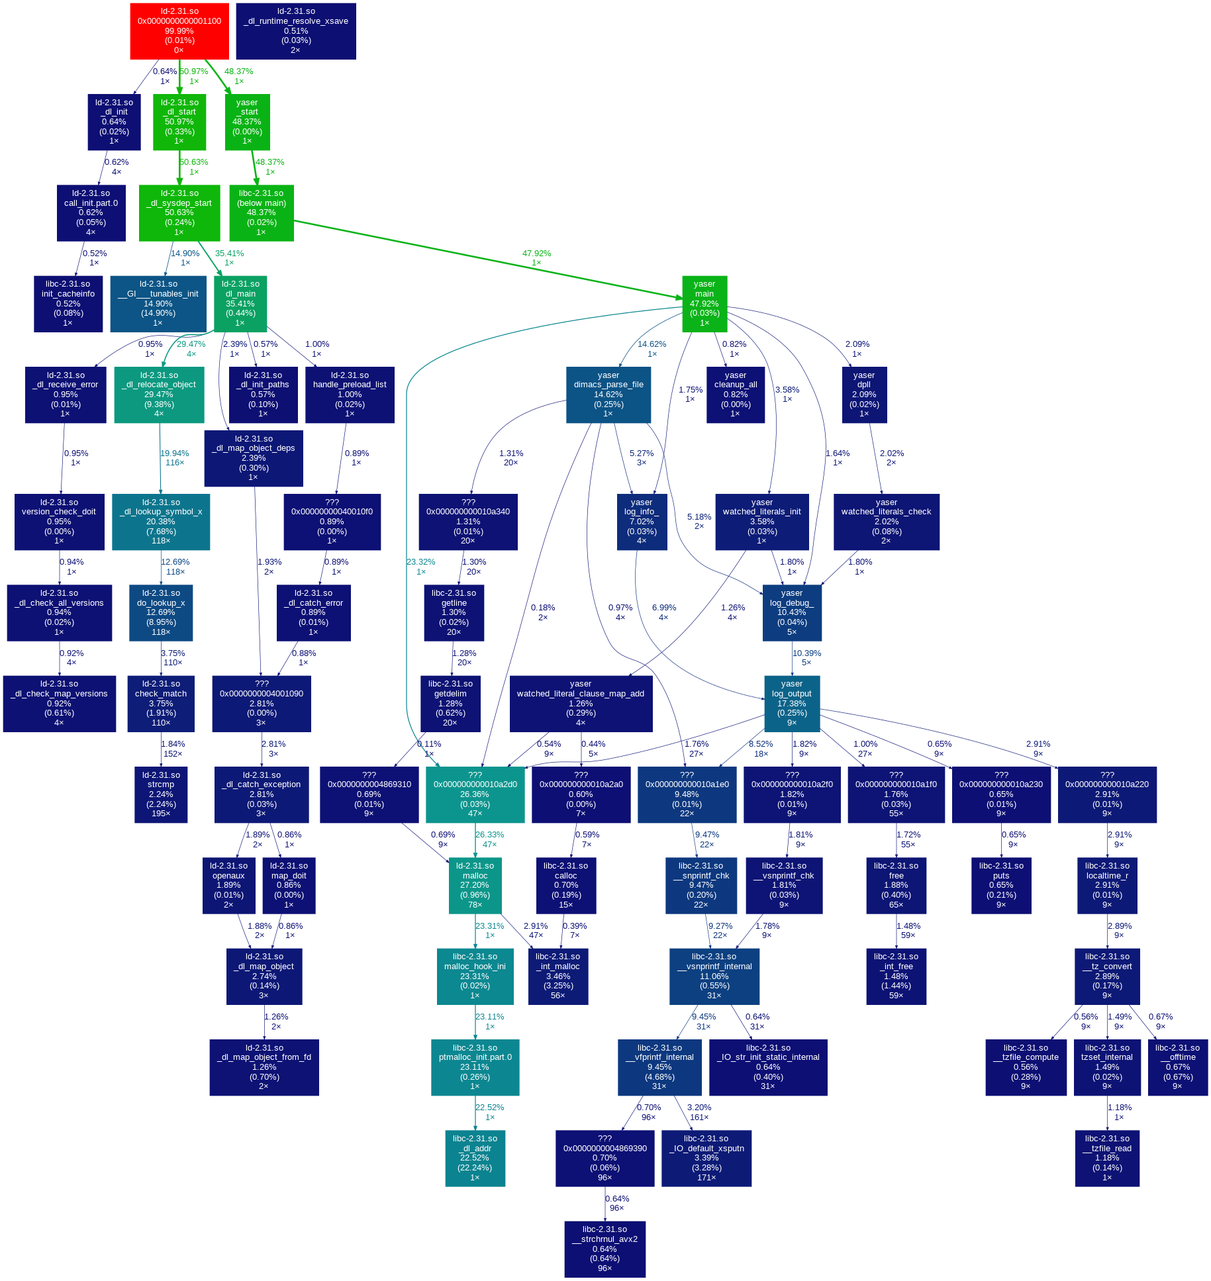
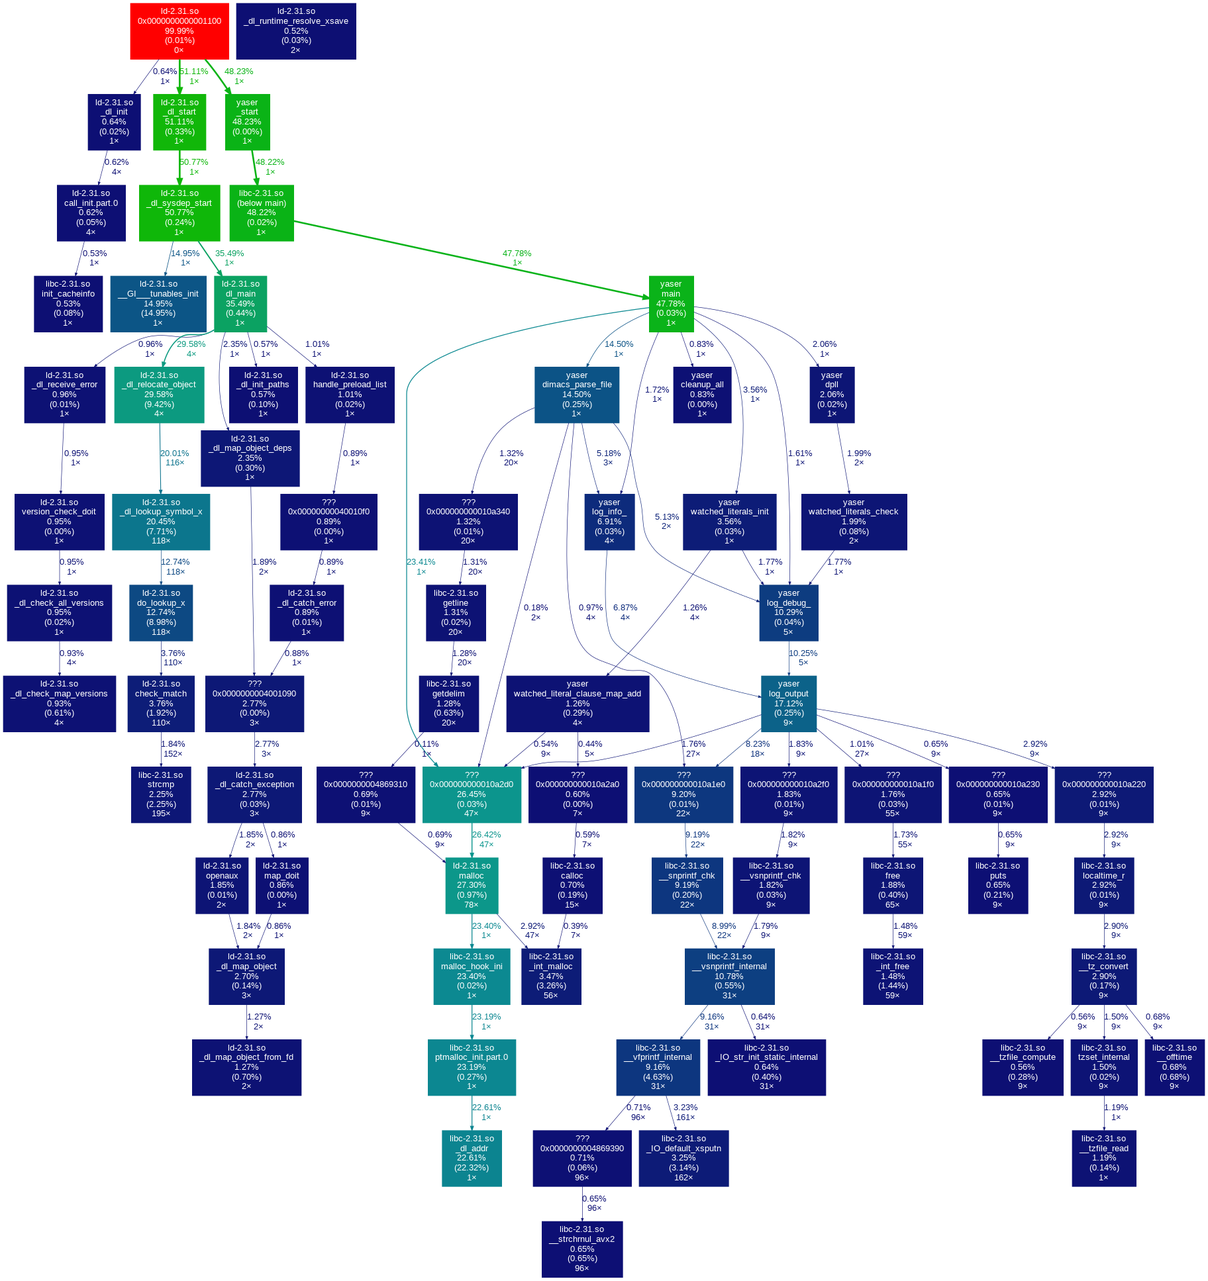
Deploying to gh-pages from @ marcluque/YASER@8e9dce87bd10e70b5e30a83572493c12b25affb4 🚀

diff --git a/searchindex.js b/searchindex.js
@@ -1,1 +1,1 @@
-Search.setIndex({"docnames": ["index", "reports/address-sanitizer", "reports/benchmark", "reports/callgrind", "reports/complexity", "reports/gnu-profiler", "reports/index", "reports/memory-sanitizer", "reports/ub-sanitizer", "reports/unit-test", "reports/valgrind-report"], "filenames": ["index.rst", "reports/address-sanitizer.rst", "reports/benchmark.rst", "reports/callgrind.rst", "reports/complexity.rst", "reports/gnu-profiler.rst", "reports/index.rst", "reports/memory-sanitizer.rst", "reports/ub-sanitizer.rst", "reports/unit-test.rst", "reports/valgrind-report.rst"], "titles": ["YASER\u2019s Documentation", "Address Sanitizer", "Benchmark", "Callgrind", "Complexity", "GNU Profiler", "Reports", "Memory Sanitizer", "Undefined Behavior Sanitizer", "Unit Test", "Valgrind"], "terms": {"13": [1, 3, 4, 7, 8, 10], "09": [1, 3, 7, 8, 10], "34": [1, 4], "yaser": [1, 3, 7, 8, 10], "32minfo": [1, 3, 7, 8, 10], "0m": [1, 3, 7, 8, 10], "dimacs_pars": [1, 3, 4, 7, 8, 10], "c": [1, 3, 4, 7, 8, 10], "32m": [1, 3, 7, 8, 10], "liter": [1, 3, 4, 7, 8, 10], "4": [1, 3, 4, 7, 8, 10], "distinct": [1, 3, 7, 8, 10], "variabl": [1, 3, 7, 8, 10], "2": [1, 3, 4, 7, 8, 10], "claus": [1, 3, 7, 8, 10], "3": [1, 3, 4, 7, 8, 10], "main": [1, 3, 4, 7, 8, 10], "32mresult": [1, 3, 7, 8, 10], "unsat": [1, 3, 7, 8, 10], "3771": 3, "call": 3, "graph": 3, "gener": 3, "cach": 3, "profil": [3, 6], "copyright": [3, 10], "2002": [3, 10], "2017": [3, 10], "gnu": [3, 6, 10], "gpl": [3, 10], "d": [3, 10], "josef": 3, "weidendorf": 3, "et": [3, 10], "al": [3, 10], "us": [3, 10], "valgrind": [3, 6], "15": [3, 4, 10], "0": [3, 4, 10], "libvex": [3, 10], "rerun": [3, 10], "h": [3, 10], "info": [3, 10], "command": [3, 10], "i": [3, 10], "satlib": [3, 10], "pigeonhol": [3, 10], "1": [3, 4, 10], "cnf": [3, 10], "warn": 3, "l3": 3, "found": 3, "its": 3, "data": 3, "ll": 3, "simul": 3, "specifi": 3, "line_s": 3, "64": 3, "assoc": 3, "20": [3, 4], "total_s": 3, "52": 3, "428": 3, "800": 3, "25": [3, 4], "For": [3, 10], "interact": 3, "control": 3, "run": 3, "callgrind_control": 3, "58": 3, "36mdebug": [3, 10], "36msuccessfulli": [3, 10], "open": [3, 10], "file": [3, 4, 10], "36mpars": [3, 10], "formula": [3, 4, 10], "x1": [3, 10], "x2": [3, 10], "watched_liter": [3, 4, 10], "36mwatch": [3, 10], "ar": [3, 10], "initi": [3, 10], "36miniti": [3, 10], "done": [3, 10], "36mclaus": [3, 10], "conflict": [3, 4, 10], "event": 3, "ir": 3, "dr": 3, "dw": 3, "i1mr": 3, "d1mr": 3, "d1mw": 3, "ilmr": 3, "dlmr": 3, "dlmw": 3, "bc": 3, "bcm": 3, "bi": 3, "bim": 3, "collect": 3, "321673": 3, "70954": 3, "26402": 3, "1821": 3, "2810": 3, "768": 3, "1683": 3, "2204": 3, "697": 3, "60859": 3, "7136": 3, "1223": 3, "284": 3, "ref": 3, "321": 3, "673": 3, "i1": 3, "miss": 3, "821": 3, "lli": 3, "683": 3, "rate": 3, "57": 3, "97": 3, "356": 3, "70": 3, "954": 3, "rd": 3, "26": 3, "402": 3, "wr": 3, "d1": 3, "578": 3, "810": 3, "lld": 3, "901": 3, "204": 3, "7": [3, 4], "9": [3, 4], "6": [3, 4], "5": [3, 4], "399": 3, "631": 3, "584": 3, "887": 3, "branch": 3, "62": [3, 4], "082": 3, "60": 3, "859": 3, "cond": 3, "223": 3, "ind": 3, "mispredict": 3, "420": 3, "136": 3, "mispr": 3, "12": [3, 4], "11": [3, 4], "23": [3, 4], "score": 4, "ln": 4, "ct": 4, "nc": 4, "name": 4, "line": 4, "proc": 4, "src": 4, "watch": 4, "sat_clause_set": 4, "24": 4, "sat_clause_set_exists_unsat": 4, "assign": 4, "unit_clause_stack": 4, "17": 4, "unit_clause_stack_clear": 4, "21": 4, "unit_clause_stack_reset": 4, "unit_clause_stack_empti": 4, "29": 4, "unit_clause_stack_ful": 4, "assignment_stack": 4, "assignment_stack_clear": 4, "assignment_stack_reset": 4, "27": 4, "assignment_stack_empti": 4, "31": 4, "assignment_stack_ful": 4, "18": 4, "sat_clause_set_add": 4, "sat_clause_set_contain": 4, "41": 4, "unit_clause_stack_pop": 4, "global": 4, "formula_clear": 4, "47": 4, "assignment_stack_pop": 4, "10": 4, "unit_clause_stack_init": 4, "assignment_stack_init": 4, "log": 4, "42": [4, 10], "log_info_": 4, "51": 4, "log_error_": 4, "33": 4, "unit_clause_stack_push": 4, "32": 4, "log_debug_": 4, "dpll": 4, "update_assign": 4, "clause_resolut": 4, "resolvent_variable_table_clear": 4, "8": 4, "conflict_resolut": 4, "resolve_conflict": 4, "watched_literal_clause_map": 4, "watched_literal_clause_map_get": 4, "clause_literal_map": 4, "clause_literal_map_clear": 4, "clause_literal_map_get": 4, "cleanup": 4, "cleanup_al": 4, "resolvent_literal_table_add": 4, "watched_literal_clause_map_clear": 4, "pars": 4, "init": 4, "30": [4, 8], "decid": 4, "35": 4, "assignment_stack_push": 4, "bcp": 4, "backtrack": 4, "clause_literal_map_add": 4, "79": 4, "tokenize_head": 4, "formula_init": 4, "tokenize_claus": 4, "92": 4, "watched_literals_check": 4, "19": 4, "log_output": 4, "watched_literals_init": 4, "16": 4, "14": 4, "55": 4, "find_new_liter": 4, "watched_literal_clause_map_add": 4, "parse_flag": 4, "28": [4, 7], "46": 4, "43": 4, "check_watched_literal_partn": 4, "print_formula": 4, "clause_resolution_build_resolv": 4, "76": 4, "100": 4, "dimacs_parse_fil": 4, "histogram": 4, "rang": 4, "lin": 4, "448": 4, "procedur": 4, "50": 4, "non": 4, "comment": 4, "averag": 4, "il": 4, "75": 4, "higher": 4, "half": 4, "highest": 4, "address": 6, "sanit": 6, "benchmark": 6, "callgrind": 6, "complex": 6, "memori": [6, 10], "undefin": 6, "behavior": 6, "unit": 6, "test": 6, "gcov": 6, "3281": 10, "memcheck": 10, "error": 10, "detector": 10, "julian": 10, "seward": 10, "heap": 10, "summari": 10, "exit": 10, "byte": 10, "block": 10, "total": 10, "usag": 10, "63": 10, "alloc": 10, "free": 10, "90": 10, "514": 10, "all": 10, "were": 10, "freed": 10, "leak": 10, "possibl": 10, "list": 10, "detect": 10, "suppress": 10, "s": 10, "from": 10, "context": 10}, "objects": {}, "objtypes": {}, "objnames": {}, "titleterms": {"yaser": 0, "s": 0, "document": 0, "address": 1, "sanit": [1, 7, 8], "benchmark": 2, "callgrind": 3, "complex": 4, "gnu": 5, "profil": 5, "report": 6, "memori": 7, "undefin": 8, "behavior": 8, "unit": 9, "test": 9, "valgrind": 10}, "envversion": {"sphinx.domains.c": 2, "sphinx.domains.changeset": 1, "sphinx.domains.citation": 1, "sphinx.domains.cpp": 6, "sphinx.domains.index": 1, "sphinx.domains.javascript": 2, "sphinx.domains.math": 2, "sphinx.domains.python": 3, "sphinx.domains.rst": 2, "sphinx.domains.std": 2, "sphinx.ext.intersphinx": 1, "sphinx.ext.todo": 2, "sphinx.ext.viewcode": 1, "sphinx": 56}})
+Search.setIndex({"docnames": ["index", "reports/address-sanitizer", "reports/benchmark", "reports/callgrind", "reports/complexity", "reports/gnu-profiler", "reports/index", "reports/memory-sanitizer", "reports/ub-sanitizer", "reports/unit-test", "reports/valgrind-report"], "filenames": ["index.rst", "reports/address-sanitizer.rst", "reports/benchmark.rst", "reports/callgrind.rst", "reports/complexity.rst", "reports/gnu-profiler.rst", "reports/index.rst", "reports/memory-sanitizer.rst", "reports/ub-sanitizer.rst", "reports/unit-test.rst", "reports/valgrind-report.rst"], "titles": ["YASER\u2019s Documentation", "Address Sanitizer", "Benchmark", "Callgrind", "Complexity", "GNU Profiler", "Reports", "Memory Sanitizer", "Undefined Behavior Sanitizer", "Unit Test", "Valgrind"], "terms": {"11": [1, 3, 4, 7, 8, 10], "34": [1, 3, 4, 7, 8, 10], "40": 1, "yaser": [1, 3, 7, 8, 10], "32minfo": [1, 3, 7, 8, 10], "0m": [1, 3, 7, 8, 10], "dimacs_pars": [1, 3, 4, 7, 8, 10], "c": [1, 3, 4, 7, 8, 10], "32m": [1, 3, 7, 8, 10], "liter": [1, 3, 4, 7, 8, 10], "4": [1, 3, 4, 7, 8, 10], "distinct": [1, 3, 7, 8, 10], "variabl": [1, 3, 7, 8, 10], "2": [1, 3, 4, 7, 8, 10], "claus": [1, 3, 7, 8, 10], "3": [1, 3, 4, 7, 8, 10], "main": [1, 3, 4, 7, 8, 10], "32mresult": [1, 3, 7, 8, 10], "unsat": [1, 3, 7, 8, 10], "3629": 3, "call": 3, "graph": 3, "gener": 3, "cach": 3, "profil": [3, 6], "copyright": [3, 10], "2002": [3, 10], "2017": [3, 10], "gnu": [3, 6, 10], "gpl": [3, 10], "d": [3, 10], "josef": 3, "weidendorf": 3, "et": [3, 10], "al": [3, 10], "us": [3, 10], "valgrind": [3, 6], "15": [3, 4, 10], "0": [3, 4, 10], "libvex": [3, 10], "rerun": [3, 10], "h": [3, 10], "info": [3, 10], "command": [3, 10], "i": [3, 10], "satlib": [3, 10], "pigeonhol": [3, 10], "1": [3, 4, 10], "cnf": [3, 10], "warn": 3, "l3": 3, "found": 3, "its": 3, "data": 3, "ll": 3, "simul": 3, "specifi": 3, "line_s": 3, "64": 3, "assoc": 3, "total_s": 3, "37": 3, "486": 3, "592": 3, "18": [3, 4], "748": 3, "736": 3, "For": [3, 10], "interact": 3, "control": 3, "run": 3, "callgrind_control": 3, "59": 3, "36mdebug": [3, 10], "36msuccessfulli": [3, 10], "open": [3, 10], "file": [3, 4, 10], "36mpars": [3, 10], "formula": [3, 4, 10], "x1": [3, 10], "x2": [3, 10], "watched_liter": [3, 4, 10], "36mwatch": [3, 10], "ar": [3, 10], "initi": [3, 10], "36miniti": [3, 10], "done": [3, 10], "36mclaus": [3, 10], "conflict": [3, 4, 10], "event": 3, "ir": 3, "dr": 3, "dw": 3, "i1mr": 3, "d1mr": 3, "d1mw": 3, "ilmr": 3, "dlmr": 3, "dlmw": 3, "bc": 3, "bcm": 3, "bi": 3, "bim": 3, "collect": 3, "320488": 3, "70714": 3, "26229": 3, "1796": 3, "2807": 3, "767": 3, "1674": 3, "2204": 3, "697": 3, "60682": 3, "7076": 3, "1214": 3, "283": 3, "ref": 3, "320": 3, "488": 3, "i1": 3, "miss": 3, "796": 3, "lli": 3, "674": 3, "rate": 3, "56": 3, "52": 3, "96": 3, "943": 3, "70": 3, "714": 3, "rd": 3, "26": 3, "229": 3, "wr": 3, "d1": 3, "574": 3, "807": 3, "lld": 3, "901": 3, "204": 3, "7": [3, 4], "9": [3, 4], "5": [3, 4], "370": 3, "603": 3, "575": 3, "878": 3, "branch": 3, "61": 3, "896": 3, "60": 3, "682": 3, "cond": 3, "214": 3, "ind": 3, "mispredict": 3, "359": 3, "076": 3, "mispr": 3, "23": [3, 4], "score": 4, "ln": 4, "ct": 4, "nc": 4, "name": 4, "line": 4, "proc": 4, "src": 4, "watch": 4, "sat_clause_set": 4, "24": 4, "sat_clause_set_exists_unsat": 4, "assign": 4, "unit_clause_stack": 4, "17": 4, "unit_clause_stack_clear": 4, "21": 4, "unit_clause_stack_reset": 4, "25": 4, "unit_clause_stack_empti": 4, "29": 4, "unit_clause_stack_ful": 4, "assignment_stack": 4, "assignment_stack_clear": 4, "assignment_stack_reset": 4, "27": 4, "assignment_stack_empti": 4, "31": 4, "assignment_stack_ful": 4, "sat_clause_set_add": 4, "sat_clause_set_contain": 4, "41": 4, "unit_clause_stack_pop": 4, "global": 4, "formula_clear": 4, "6": 4, "47": 4, "assignment_stack_pop": 4, "10": 4, "unit_clause_stack_init": 4, "assignment_stack_init": 4, "log": 4, "42": 4, "log_info_": 4, "51": 4, "log_error_": 4, "33": 4, "unit_clause_stack_push": 4, "32": 4, "log_debug_": 4, "dpll": 4, "update_assign": 4, "clause_resolut": 4, "resolvent_variable_table_clear": 4, "8": 4, "conflict_resolut": 4, "resolve_conflict": 4, "watched_literal_clause_map": 4, "watched_literal_clause_map_get": 4, "clause_literal_map": 4, "clause_literal_map_clear": 4, "clause_literal_map_get": 4, "12": 4, "cleanup": 4, "cleanup_al": 4, "13": 4, "resolvent_literal_table_add": 4, "watched_literal_clause_map_clear": 4, "pars": 4, "init": 4, "30": 4, "decid": 4, "35": 4, "assignment_stack_push": 4, "bcp": 4, "backtrack": 4, "20": 4, "clause_literal_map_add": 4, "79": 4, "tokenize_head": 4, "formula_init": 4, "62": 4, "tokenize_claus": 4, "92": 4, "watched_literals_check": 4, "19": 4, "log_output": 4, "watched_literals_init": 4, "16": 4, "14": 4, "55": 4, "find_new_liter": 4, "watched_literal_clause_map_add": 4, "parse_flag": 4, "28": 4, "46": 4, "43": 4, "check_watched_literal_partn": 4, "print_formula": 4, "clause_resolution_build_resolv": 4, "76": 4, "100": 4, "dimacs_parse_fil": 4, "histogram": 4, "rang": 4, "lin": 4, "448": 4, "procedur": 4, "50": 4, "non": 4, "comment": 4, "averag": 4, "il": 4, "75": 4, "higher": 4, "half": 4, "highest": 4, "address": 6, "sanit": 6, "benchmark": 6, "callgrind": 6, "complex": 6, "memori": [6, 10], "undefin": 6, "behavior": 6, "unit": 6, "test": 6, "gcov": 6, "44": 7, "39": 8, "3036": 10, "memcheck": 10, "error": 10, "detector": 10, "julian": 10, "seward": 10, "53": 10, "heap": 10, "summari": 10, "exit": 10, "byte": 10, "block": 10, "total": 10, "usag": 10, "63": 10, "alloc": 10, "free": 10, "90": 10, "514": 10, "all": 10, "were": 10, "freed": 10, "leak": 10, "possibl": 10, "list": 10, "detect": 10, "suppress": 10, "s": 10, "from": 10, "context": 10}, "objects": {}, "objtypes": {}, "objnames": {}, "titleterms": {"yaser": 0, "s": 0, "document": 0, "address": 1, "sanit": [1, 7, 8], "benchmark": 2, "callgrind": 3, "complex": 4, "gnu": 5, "profil": 5, "report": 6, "memori": 7, "undefin": 8, "behavior": 8, "unit": 9, "test": 9, "valgrind": 10}, "envversion": {"sphinx.domains.c": 2, "sphinx.domains.changeset": 1, "sphinx.domains.citation": 1, "sphinx.domains.cpp": 6, "sphinx.domains.index": 1, "sphinx.domains.javascript": 2, "sphinx.domains.math": 2, "sphinx.domains.python": 3, "sphinx.domains.rst": 2, "sphinx.domains.std": 2, "sphinx.ext.intersphinx": 1, "sphinx.ext.todo": 2, "sphinx.ext.viewcode": 1, "sphinx": 56}})

diff --git a/reports/callgrind.html b/reports/callgrind.html
@@ -81,47 +81,47 @@
              
   <section id="callgrind">
 <span id="reports-callgrind"></span><h1>Callgrind<a class="headerlink" href="#callgrind" title="Permalink to this heading"></a></h1>
-<div class="highlight-C notranslate"><div class="highlight"><pre><span></span>==3771== Callgrind, a call-graph generating cache profiler
-==3771== Copyright (C) 2002-2017, and GNU GPL&#39;d, by Josef Weidendorfer et al.
-==3771== Using Valgrind-3.15.0 and LibVEX; rerun with -h for copyright info
-==3771== Command: ./yaser -i satlib/pigeonhole/pigeonhole-1.cnf
-==3771== 
---3771-- warning: L3 cache found, using its data for the LL simulation.
---3771-- warning: specified LL cache: line_size 64  assoc 20  total_size 52,428,800
---3771-- warning: simulated LL cache: line_size 64  assoc 25  total_size 52,428,800
-==3771== For interactive control, run &#39;callgrind_control -h&#39;.
-[13:09:58][YASER - [36mDEBUG[0m][dimacs_parser.c]: [36mSuccessfully opened file (satlib/pigeonhole/pigeonhole-1.cnf)[0m
-[13:09:58][YASER - [32mINFO[0m][dimacs_parser.c]: [32m#Literals=4 (not distinct)[0m
-[13:09:58][YASER - [32mINFO[0m][dimacs_parser.c]: [32m#Variables=2[0m
-[13:09:58][YASER - [32mINFO[0m][dimacs_parser.c]: [32m#Clauses=3[0m
-[13:09:58][YASER - [36mDEBUG[0m][dimacs_parser.c]: [36mParsed formula (x1) ∧ (x2) ∧ (¬x1 ∨ ¬x2)[0m
-[13:09:58][YASER - [36mDEBUG[0m][watched_literals.c]: [36mWatched Literals are initialized...[0m
-[13:09:58][YASER - [36mDEBUG[0m][main.c]: [36mInitialization done...[0m
-[13:09:58][YASER - [36mDEBUG[0m][watched_literals.c]: [36mClause 0 is conflicting[0m
-[13:09:58][YASER - [32mINFO[0m][main.c]: [32mRESULT: UNSAT[0m
-==3771== 
-==3771== Events    : Ir Dr Dw I1mr D1mr D1mw ILmr DLmr DLmw Bc Bcm Bi Bim
-==3771== Collected : 321673 70954 26402 1821 2810 768 1683 2204 697 60859 7136 1223 284
-==3771== 
-==3771== I   refs:      321,673
-==3771== I1  misses:      1,821
-==3771== LLi misses:      1,683
-==3771== I1  miss rate:    0.57%
-==3771== LLi miss rate:    0.52%
-==3771== 
-==3771== D   refs:       97,356  (70,954 rd + 26,402 wr)
-==3771== D1  misses:      3,578  ( 2,810 rd +    768 wr)
-==3771== LLd misses:      2,901  ( 2,204 rd +    697 wr)
-==3771== D1  miss rate:     3.7% (   4.0%   +    2.9%  )
-==3771== LLd miss rate:     3.0% (   3.1%   +    2.6%  )
-==3771== 
-==3771== LL refs:         5,399  ( 4,631 rd +    768 wr)
-==3771== LL misses:       4,584  ( 3,887 rd +    697 wr)
-==3771== LL miss rate:      1.1% (   1.0%   +    2.6%  )
-==3771== 
-==3771== Branches:       62,082  (60,859 cond +  1,223 ind)
-==3771== Mispredicts:     7,420  ( 7,136 cond +    284 ind)
-==3771== Mispred rate:     12.0% (  11.7%     +   23.2%   )
+<div class="highlight-C notranslate"><div class="highlight"><pre><span></span>==3629== Callgrind, a call-graph generating cache profiler
+==3629== Copyright (C) 2002-2017, and GNU GPL&#39;d, by Josef Weidendorfer et al.
+==3629== Using Valgrind-3.15.0 and LibVEX; rerun with -h for copyright info
+==3629== Command: ./yaser -i satlib/pigeonhole/pigeonhole-1.cnf
+==3629== 
+--3629-- warning: L3 cache found, using its data for the LL simulation.
+--3629-- warning: specified LL cache: line_size 64  assoc 11  total_size 37,486,592
+--3629-- warning: simulated LL cache: line_size 64  assoc 18  total_size 37,748,736
+==3629== For interactive control, run &#39;callgrind_control -h&#39;.
+[11:34:59][YASER - [36mDEBUG[0m][dimacs_parser.c]: [36mSuccessfully opened file (satlib/pigeonhole/pigeonhole-1.cnf)[0m
+[11:34:59][YASER - [32mINFO[0m][dimacs_parser.c]: [32m#Literals=4 (not distinct)[0m
+[11:34:59][YASER - [32mINFO[0m][dimacs_parser.c]: [32m#Variables=2[0m
+[11:34:59][YASER - [32mINFO[0m][dimacs_parser.c]: [32m#Clauses=3[0m
+[11:34:59][YASER - [36mDEBUG[0m][dimacs_parser.c]: [36mParsed formula (x1) ∧ (x2) ∧ (¬x1 ∨ ¬x2)[0m
+[11:34:59][YASER - [36mDEBUG[0m][watched_literals.c]: [36mWatched Literals are initialized...[0m
+[11:34:59][YASER - [36mDEBUG[0m][main.c]: [36mInitialization done...[0m
+[11:34:59][YASER - [36mDEBUG[0m][watched_literals.c]: [36mClause 0 is conflicting[0m
+[11:34:59][YASER - [32mINFO[0m][main.c]: [32mRESULT: UNSAT[0m
+==3629== 
+==3629== Events    : Ir Dr Dw I1mr D1mr D1mw ILmr DLmr DLmw Bc Bcm Bi Bim
+==3629== Collected : 320488 70714 26229 1796 2807 767 1674 2204 697 60682 7076 1214 283
+==3629== 
+==3629== I   refs:      320,488
+==3629== I1  misses:      1,796
+==3629== LLi misses:      1,674
+==3629== I1  miss rate:    0.56%
+==3629== LLi miss rate:    0.52%
+==3629== 
+==3629== D   refs:       96,943  (70,714 rd + 26,229 wr)
+==3629== D1  misses:      3,574  ( 2,807 rd +    767 wr)
+==3629== LLd misses:      2,901  ( 2,204 rd +    697 wr)
+==3629== D1  miss rate:     3.7% (   4.0%   +    2.9%  )
+==3629== LLd miss rate:     3.0% (   3.1%   +    2.7%  )
+==3629== 
+==3629== LL refs:         5,370  ( 4,603 rd +    767 wr)
+==3629== LL misses:       4,575  ( 3,878 rd +    697 wr)
+==3629== LL miss rate:      1.1% (   1.0%   +    2.7%  )
+==3629== 
+==3629== Branches:       61,896  (60,682 cond +  1,214 ind)
+==3629== Mispredicts:     7,359  ( 7,076 cond +    283 ind)
+==3629== Mispred rate:     11.9% (  11.7%     +   23.3%   )
 </pre></div>
 </div>
 <img alt="gprof report" src="../_images/callgrind-report.png" />

diff --git a/reports/valgrind-report.html b/reports/valgrind-report.html
@@ -80,29 +80,29 @@
              
   <section id="valgrind">
 <span id="reports-valgrind"></span><h1>Valgrind<a class="headerlink" href="#valgrind" title="Permalink to this heading"></a></h1>
-<div class="highlight-C notranslate"><div class="highlight"><pre><span></span>==3281== Memcheck, a memory error detector
-==3281== Copyright (C) 2002-2017, and GNU GPL&#39;d, by Julian Seward et al.
-==3281== Using Valgrind-3.15.0 and LibVEX; rerun with -h for copyright info
-==3281== Command: ./yaser -i satlib/pigeonhole/pigeonhole-1.cnf
-==3281== 
-[13:09:42][YASER - [36mDEBUG[0m][dimacs_parser.c]: [36mSuccessfully opened file (satlib/pigeonhole/pigeonhole-1.cnf)[0m
-[13:09:42][YASER - [32mINFO[0m][dimacs_parser.c]: [32m#Literals=4 (not distinct)[0m
-[13:09:42][YASER - [32mINFO[0m][dimacs_parser.c]: [32m#Variables=2[0m
-[13:09:42][YASER - [32mINFO[0m][dimacs_parser.c]: [32m#Clauses=3[0m
-[13:09:42][YASER - [36mDEBUG[0m][dimacs_parser.c]: [36mParsed formula (x1) ∧ (x2) ∧ (¬x1 ∨ ¬x2)[0m
-[13:09:42][YASER - [36mDEBUG[0m][watched_literals.c]: [36mWatched Literals are initialized...[0m
-[13:09:42][YASER - [36mDEBUG[0m][main.c]: [36mInitialization done...[0m
-[13:09:42][YASER - [36mDEBUG[0m][watched_literals.c]: [36mClause 0 is conflicting[0m
-[13:09:42][YASER - [32mINFO[0m][main.c]: [32mRESULT: UNSAT[0m
-==3281== 
-==3281== HEAP SUMMARY:
-==3281==     in use at exit: 0 bytes in 0 blocks
-==3281==   total heap usage: 63 allocs, 63 frees, 90,514 bytes allocated
-==3281== 
-==3281== All heap blocks were freed -- no leaks are possible
-==3281== 
-==3281== For lists of detected and suppressed errors, rerun with: -s
-==3281== ERROR SUMMARY: 0 errors from 0 contexts (suppressed: 0 from 0)
+<div class="highlight-C notranslate"><div class="highlight"><pre><span></span>==3036== Memcheck, a memory error detector
+==3036== Copyright (C) 2002-2017, and GNU GPL&#39;d, by Julian Seward et al.
+==3036== Using Valgrind-3.15.0 and LibVEX; rerun with -h for copyright info
+==3036== Command: ./yaser -i satlib/pigeonhole/pigeonhole-1.cnf
+==3036== 
+[11:34:53][YASER - [36mDEBUG[0m][dimacs_parser.c]: [36mSuccessfully opened file (satlib/pigeonhole/pigeonhole-1.cnf)[0m
+[11:34:53][YASER - [32mINFO[0m][dimacs_parser.c]: [32m#Literals=4 (not distinct)[0m
+[11:34:53][YASER - [32mINFO[0m][dimacs_parser.c]: [32m#Variables=2[0m
+[11:34:53][YASER - [32mINFO[0m][dimacs_parser.c]: [32m#Clauses=3[0m
+[11:34:53][YASER - [36mDEBUG[0m][dimacs_parser.c]: [36mParsed formula (x1) ∧ (x2) ∧ (¬x1 ∨ ¬x2)[0m
+[11:34:53][YASER - [36mDEBUG[0m][watched_literals.c]: [36mWatched Literals are initialized...[0m
+[11:34:53][YASER - [36mDEBUG[0m][main.c]: [36mInitialization done...[0m
+[11:34:53][YASER - [36mDEBUG[0m][watched_literals.c]: [36mClause 0 is conflicting[0m
+[11:34:53][YASER - [32mINFO[0m][main.c]: [32mRESULT: UNSAT[0m
+==3036== 
+==3036== HEAP SUMMARY:
+==3036==     in use at exit: 0 bytes in 0 blocks
+==3036==   total heap usage: 63 allocs, 63 frees, 90,514 bytes allocated
+==3036== 
+==3036== All heap blocks were freed -- no leaks are possible
+==3036== 
+==3036== For lists of detected and suppressed errors, rerun with: -s
+==3036== ERROR SUMMARY: 0 errors from 0 contexts (suppressed: 0 from 0)
 </pre></div>
 </div>
 </section>

diff --git a/reports/ub-sanitizer.html b/reports/ub-sanitizer.html
@@ -81,10 +81,10 @@
              
   <section id="undefined-behavior-sanitizer">
 <span id="reports-ub-san"></span><h1>Undefined Behavior Sanitizer<a class="headerlink" href="#undefined-behavior-sanitizer" title="Permalink to this heading"></a></h1>
-<div class="highlight-C notranslate"><div class="highlight"><pre><span></span>[13:09:30][YASER - [32mINFO[0m][dimacs_parser.c]: [32m#Literals=4 (not distinct)[0m
-[13:09:30][YASER - [32mINFO[0m][dimacs_parser.c]: [32m#Variables=2[0m
-[13:09:30][YASER - [32mINFO[0m][dimacs_parser.c]: [32m#Clauses=3[0m
-[13:09:30][YASER - [32mINFO[0m][main.c]: [32mRESULT: UNSAT[0m
+<div class="highlight-C notranslate"><div class="highlight"><pre><span></span>[11:34:39][YASER - [32mINFO[0m][dimacs_parser.c]: [32m#Literals=4 (not distinct)[0m
+[11:34:39][YASER - [32mINFO[0m][dimacs_parser.c]: [32m#Variables=2[0m
+[11:34:39][YASER - [32mINFO[0m][dimacs_parser.c]: [32m#Clauses=3[0m
+[11:34:39][YASER - [32mINFO[0m][main.c]: [32mRESULT: UNSAT[0m
 </pre></div>
 </div>
 </section>

diff --git a/reports/address-sanitizer.html b/reports/address-sanitizer.html
@@ -81,10 +81,10 @@
              
   <section id="address-sanitizer">
 <span id="reports-address-san"></span><h1>Address Sanitizer<a class="headerlink" href="#address-sanitizer" title="Permalink to this heading"></a></h1>
-<div class="highlight-C notranslate"><div class="highlight"><pre><span></span>[13:09:34][YASER - [32mINFO[0m][dimacs_parser.c]: [32m#Literals=4 (not distinct)[0m
-[13:09:34][YASER - [32mINFO[0m][dimacs_parser.c]: [32m#Variables=2[0m
-[13:09:34][YASER - [32mINFO[0m][dimacs_parser.c]: [32m#Clauses=3[0m
-[13:09:34][YASER - [32mINFO[0m][main.c]: [32mRESULT: UNSAT[0m
+<div class="highlight-C notranslate"><div class="highlight"><pre><span></span>[11:34:40][YASER - [32mINFO[0m][dimacs_parser.c]: [32m#Literals=4 (not distinct)[0m
+[11:34:40][YASER - [32mINFO[0m][dimacs_parser.c]: [32m#Variables=2[0m
+[11:34:40][YASER - [32mINFO[0m][dimacs_parser.c]: [32m#Clauses=3[0m
+[11:34:40][YASER - [32mINFO[0m][main.c]: [32mRESULT: UNSAT[0m
 </pre></div>
 </div>
 </section>

diff --git a/reports/memory-sanitizer.html b/reports/memory-sanitizer.html
@@ -81,10 +81,10 @@
              
   <section id="memory-sanitizer">
 <span id="reports-memory-san"></span><h1>Memory Sanitizer<a class="headerlink" href="#memory-sanitizer" title="Permalink to this heading"></a></h1>
-<div class="highlight-C notranslate"><div class="highlight"><pre><span></span>[13:09:28][YASER - [32mINFO[0m][dimacs_parser.c]: [32m#Literals=4 (not distinct)[0m
-[13:09:28][YASER - [32mINFO[0m][dimacs_parser.c]: [32m#Variables=2[0m
-[13:09:28][YASER - [32mINFO[0m][dimacs_parser.c]: [32m#Clauses=3[0m
-[13:09:28][YASER - [32mINFO[0m][main.c]: [32mRESULT: UNSAT[0m
+<div class="highlight-C notranslate"><div class="highlight"><pre><span></span>[11:34:44][YASER - [32mINFO[0m][dimacs_parser.c]: [32m#Literals=4 (not distinct)[0m
+[11:34:44][YASER - [32mINFO[0m][dimacs_parser.c]: [32m#Variables=2[0m
+[11:34:44][YASER - [32mINFO[0m][dimacs_parser.c]: [32m#Clauses=3[0m
+[11:34:44][YASER - [32mINFO[0m][main.c]: [32mRESULT: UNSAT[0m
 </pre></div>
 </div>
 </section>
